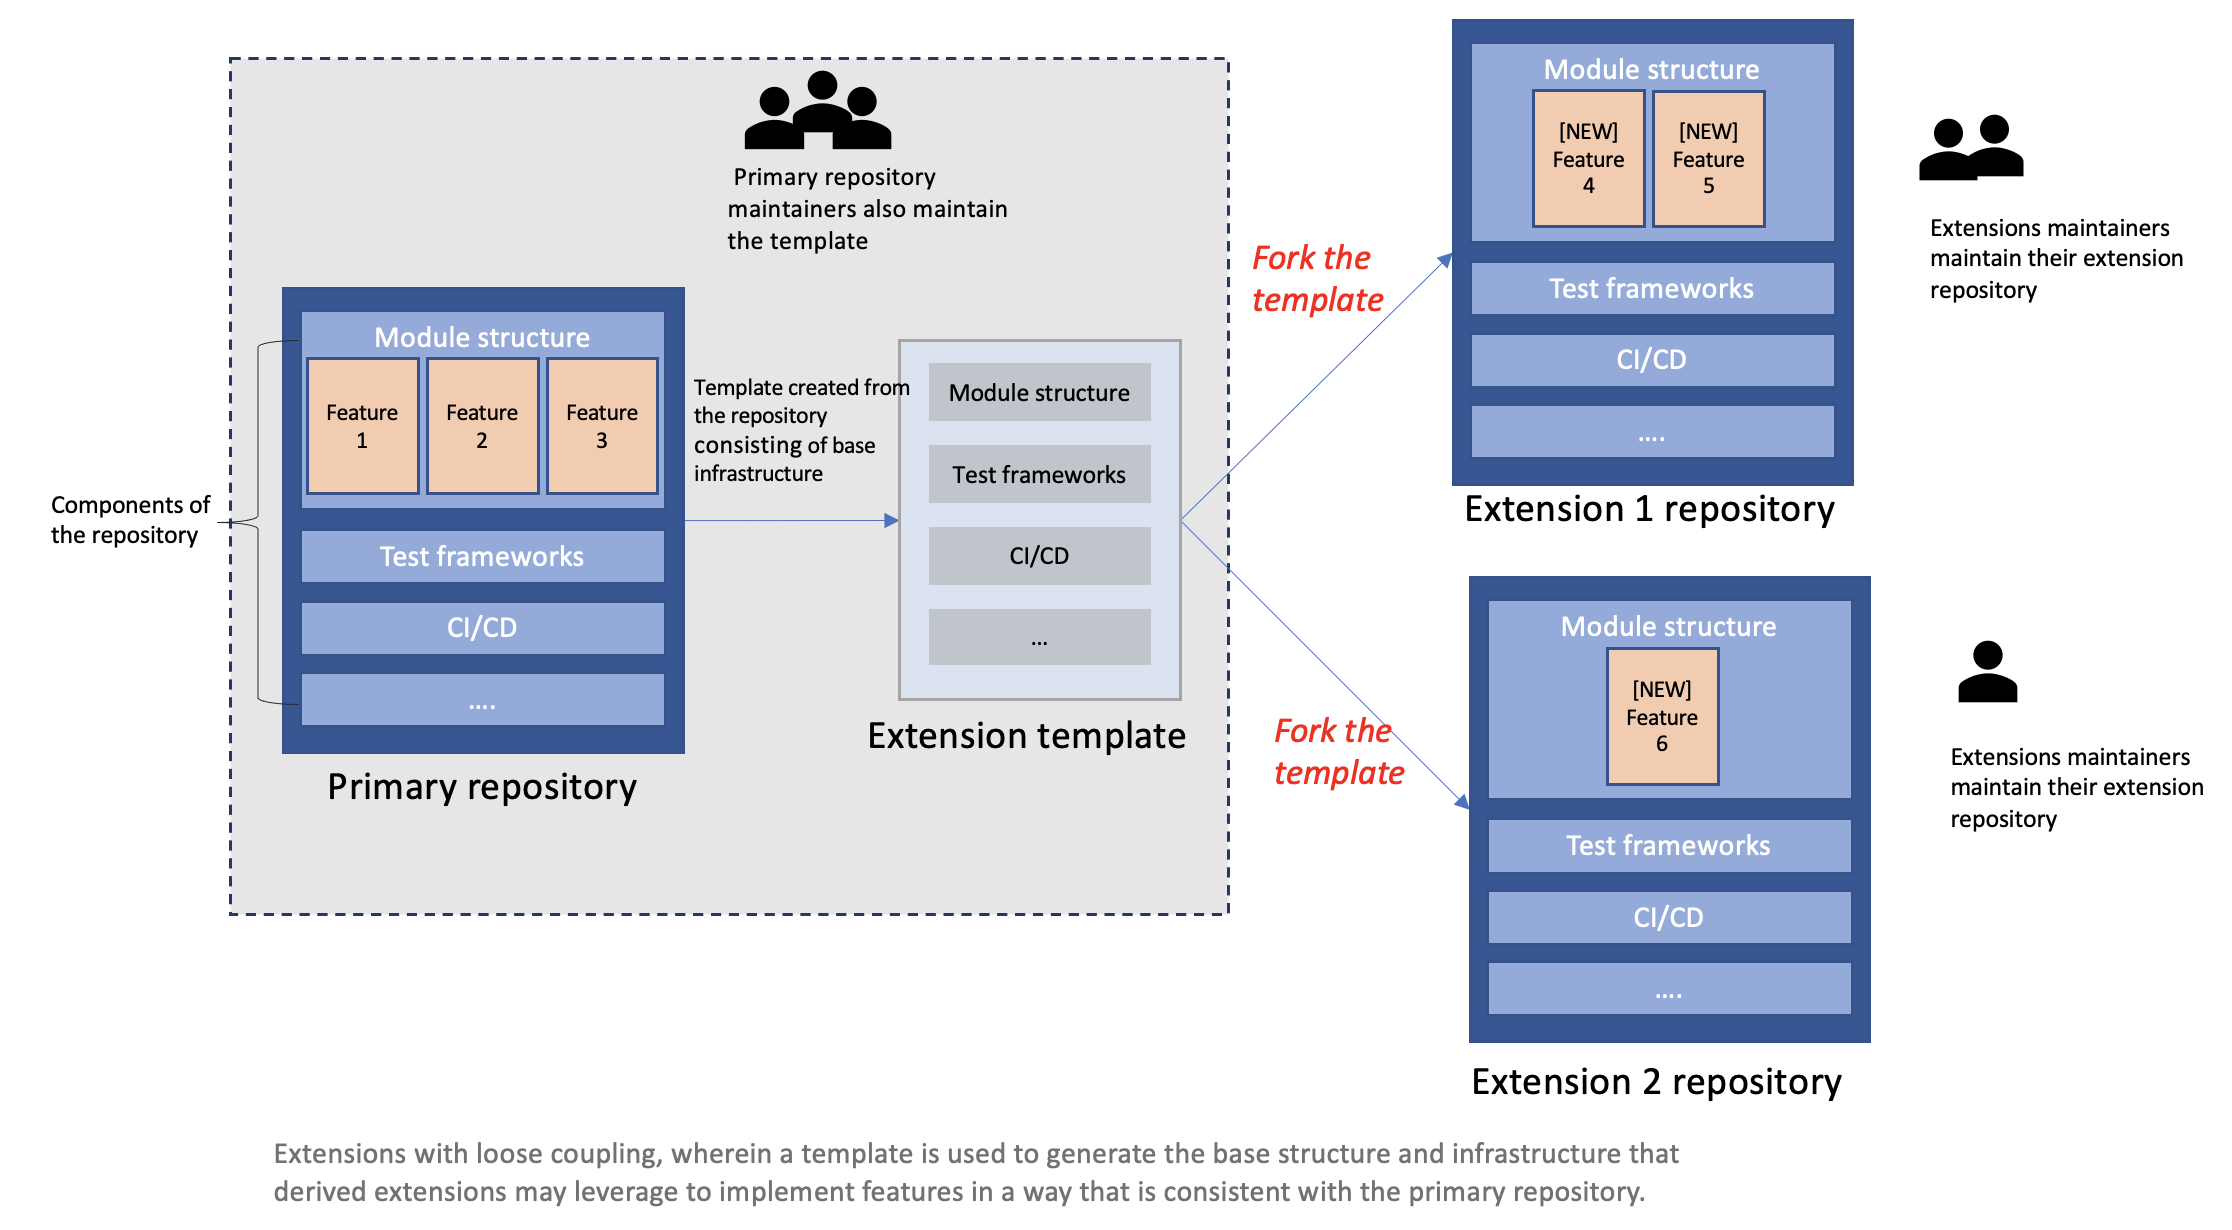
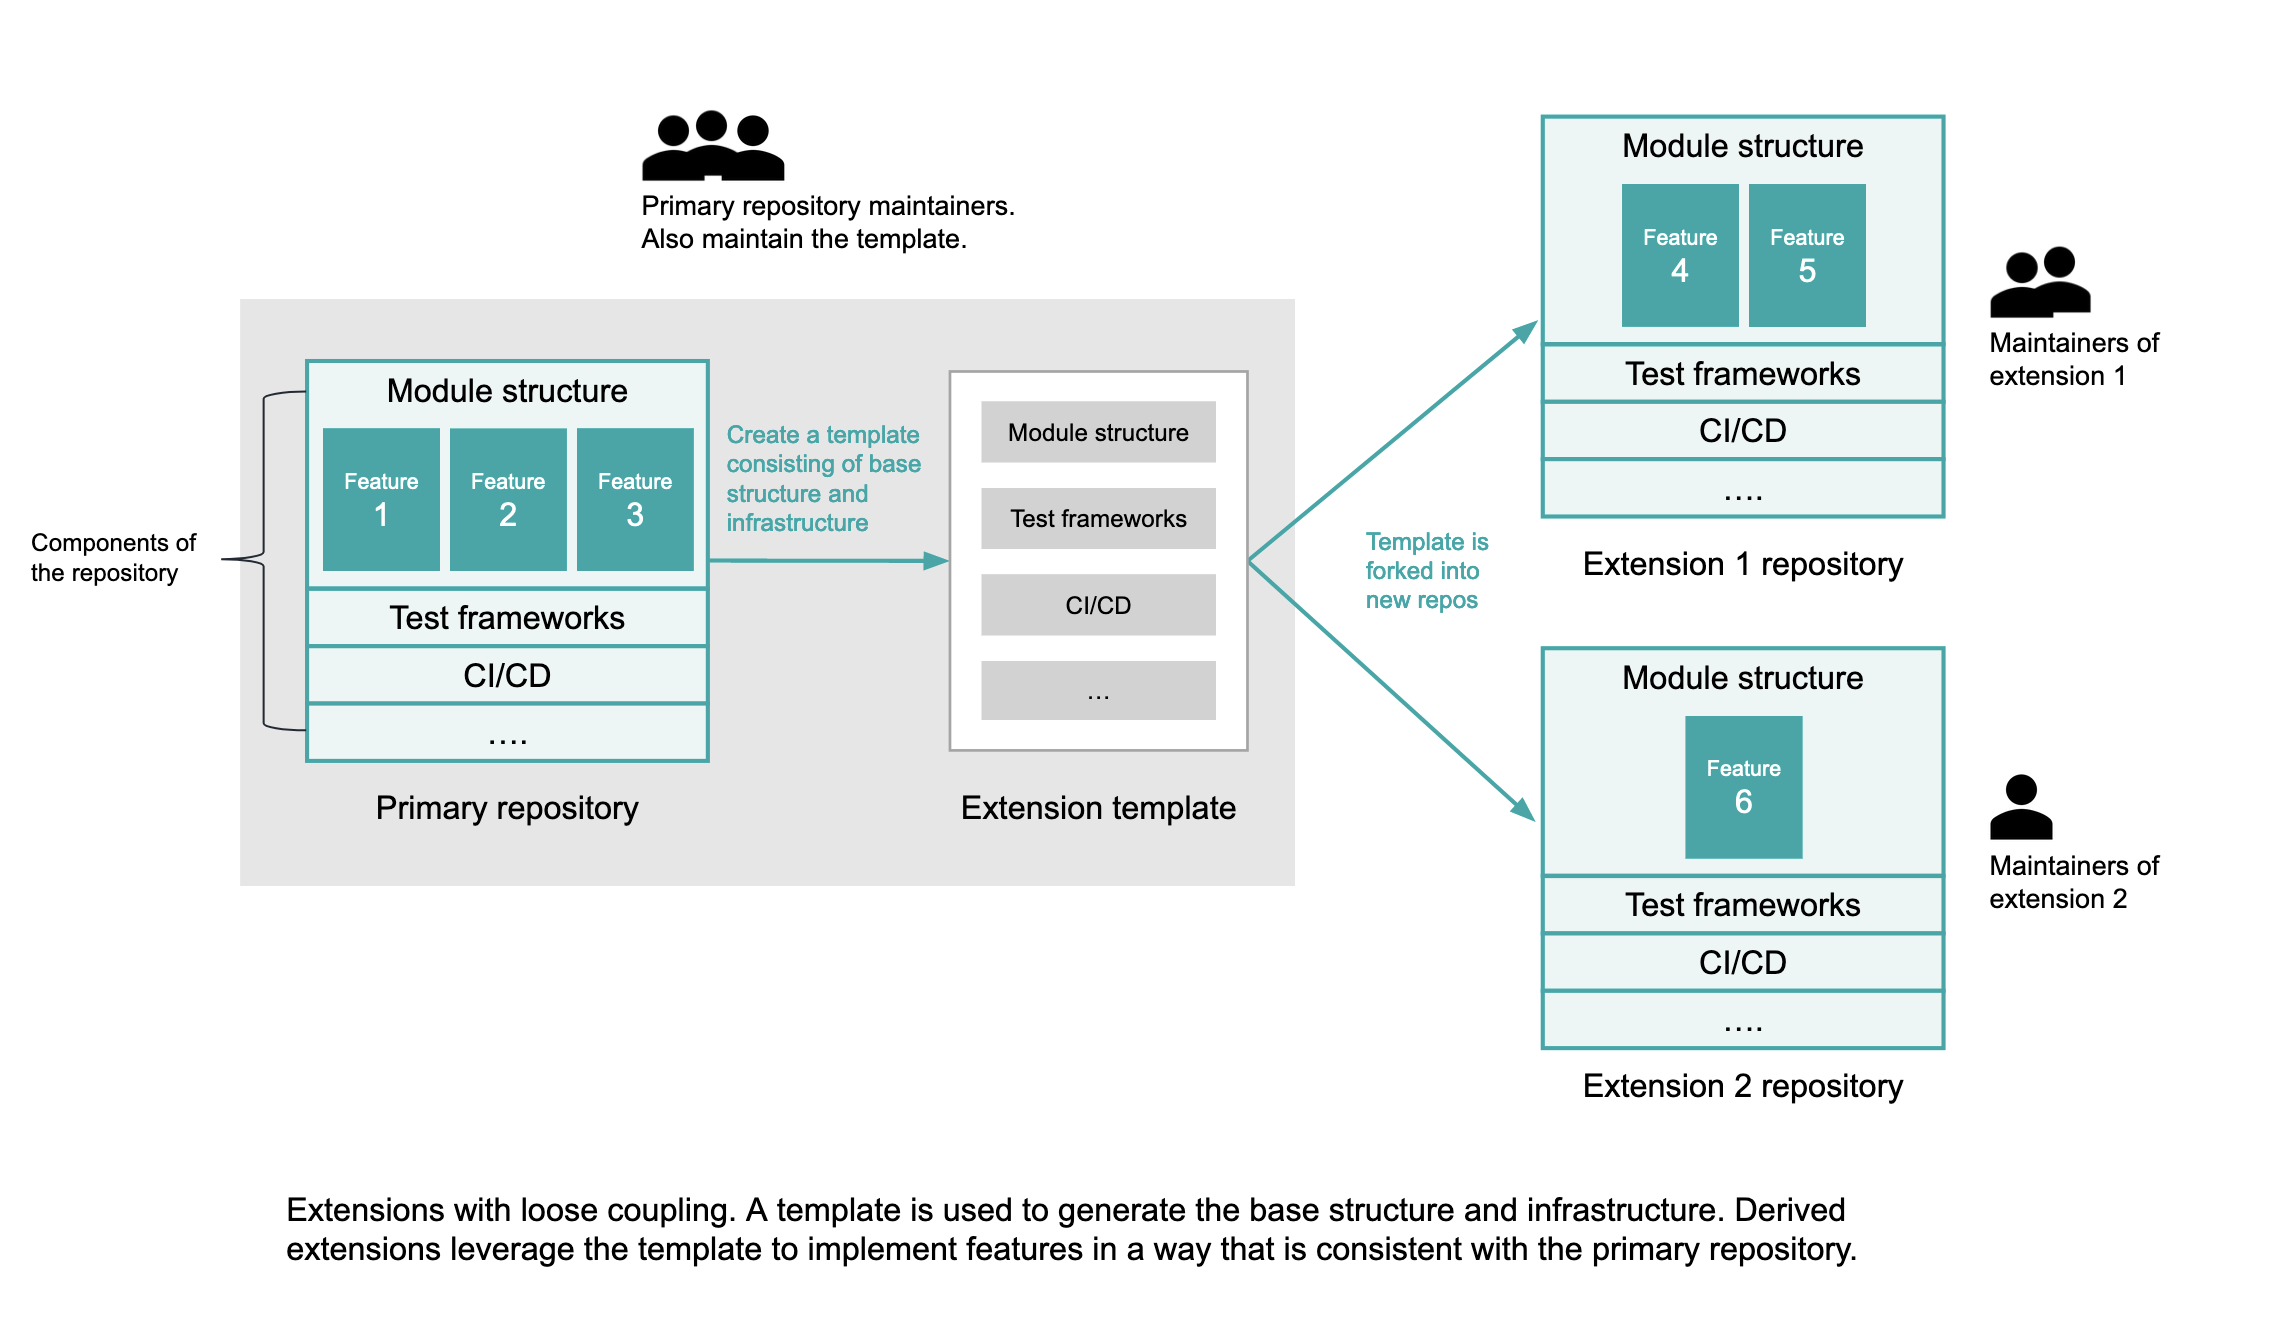
update arch diagram

diff --git a/patterns/1-initial/extensions-for-sustainable-growth.md b/patterns/1-initial/extensions-for-sustainable-growth.md
@@ -14,7 +14,7 @@ As the number of contributions to a mature InnerSource repository rapidly increa
 
 There is a strategic project that aims to collect the best innovations within a domain space to one common stack, allowing reuse of a common infrastructure and providing a standard user experience. Through InnerSource, various teams in the organization that work within the domain space get an opportunity to collaborate and contribute their innovations to the common codebase. However, a large number of contributions in parallel from several developers is making maintenance of the codebase difficult. This is adding a huge burden on the project maintainers who assume ownership over the code quality standards and enable the community through various forms of communication.
 
-Project maintainers are burnt out due to:
+Project maintainers are at risk of burnout due to:
 
 - Everlasting backlog of pull requests that need to be reviewed.
 - Job dissatisfaction: Majority of maintainers' time spent in community support leaves no room for innovation.

diff --git a/assets/img/extensions-for-sustainable-growth/README.md b/assets/img/extensions-for-sustainable-growth/README.md
@@ -1,1 +1,1 @@
-If you want to edit the illustration, please request access to this [source document](https://docs.google.com/presentation/d/1X5c2dRFfJwQ7iBKbDKUM4jq_G0qm7uEK/edit#slide=id.p1).
+If you want to edit the illustration, please request access to this [source document](https://docs.google.com/presentation/d/1uyvRcIIrxKedajB6XeGL21_2p60oGOi-nrU6pwk5YqA/edit#slide=id.g1af54b5764d_0_135).
